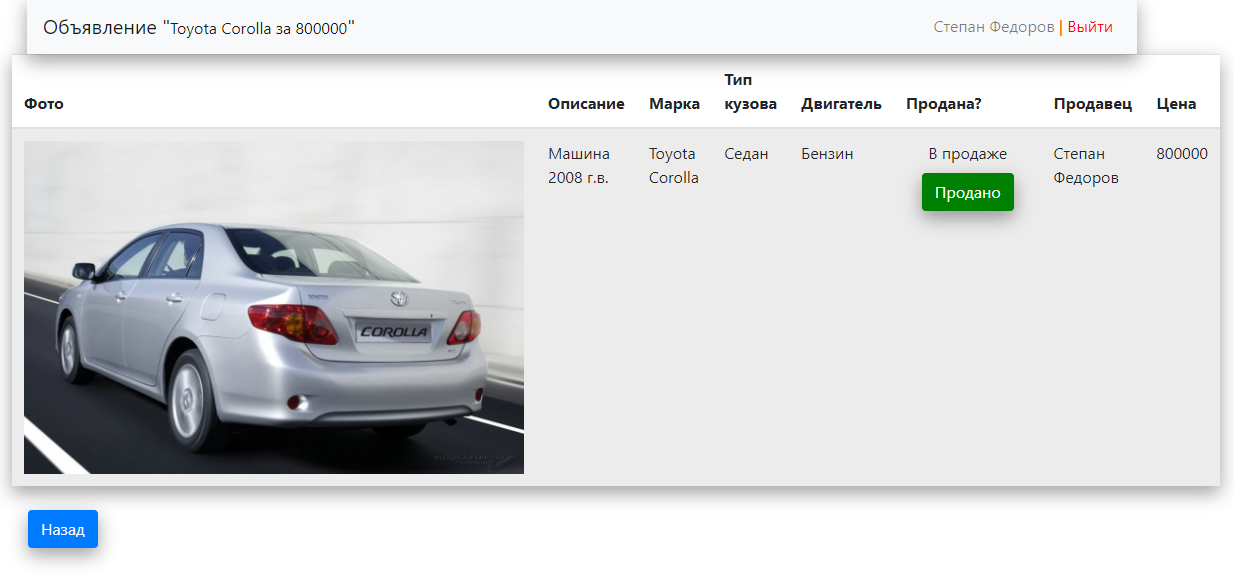
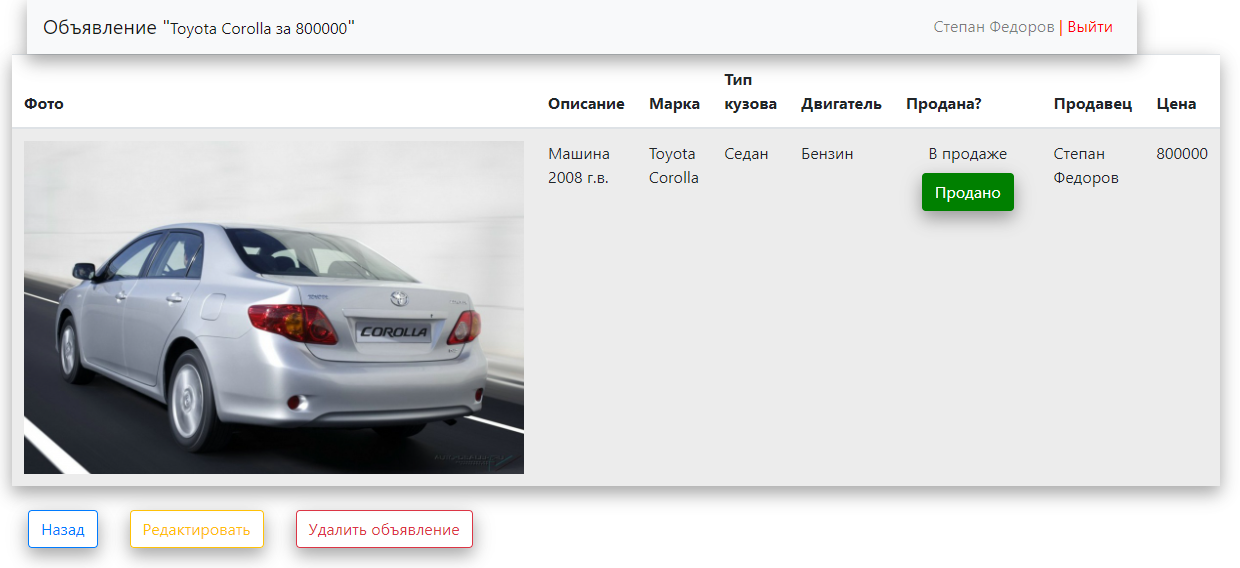
Тестовое задание. Hibernate. [#330581 #336785]

diff --git a/src/main/resources/templates/updateAd.html b/src/main/resources/templates/updateAd.html
@@ -18,14 +18,15 @@
 <body>
 <div class="container">
     <nav class="navbar navbar-expand-lg navbar-light bg-light">
-        <a class="navbar-brand" href="#">Новое объявление о продаже</a>
+        <a class="navbar-brand" href="#">Изменить объявление "<small
+                th:text="${advertisement.car.carBrand} + ' за ' + ${advertisement.price}"></small>"</a>
         <button class="navbar-toggler" type="button" data-toggle="collapse" data-target="#navbarNavAltMarkup" aria-controls="navbarNavAltMarkup" aria-expanded="false" aria-label="Toggle navigation">
             <span class="navbar-toggler-icon"></span>
         </button>
         <div class="collapse navbar-collapse" id="navbarNavAltMarkup">
             <div class="navbar-nav mr-auto">
                 <a class="nav-item nav-link" th:href="@{/ads}">Все объявления</a>
-                <a class="nav-item nav-link active" th:href="@{/addAdvertisement}">Новое объявление<span class="sr-only">(current)</span></a>
+                <a class="nav-item nav-link" th:href="@{/addAdvertisement}">Новое объявление</a>
             </div>
             <div class="navbar-nav ml-auto">
                 <a class="nav-item nav-link" th:if="${user.name == 'Гость'}" th:href="@{/loginPage}">
@@ -42,48 +43,27 @@
     <div class="row">
         <div class="card" style="width: 100%">
             <div class="card-header">
-                Новое объявление.
+                Редактировать объявление.
             </div>
             <div class="card-body">
-                <form th:action="@{/createAdvertisement}" method="POST" enctype="multipart/form-data">
-                    <input type="hidden" name="id" value="0"/>
-                    <div class="form-group">
-                        <label for="carBrand">Марка автомобиля</label>
-                        <select class="form-control" id="carBrand" th:name="carBrand">
-                            <option th:each="brand: ${carBrands}" th:text="${brand}"></option>
-                        </select>
-                        <a th:href="@{/addNewCarAd}">Не нашли марку Вашего автомобиля в списке?</a>
-                    </div>
-                    <div class="form-group">
-                        <label for="engine">Тип двигателя</label>
-                        <select class="form-control" id="engine" th:name="engine">
-                            <option th:each="engine: ${engines}" th:value="${engine.id}"
-                                    th:text="${engine.description}"></option>
-                        </select>
-                    </div>
-                    <div class="form-group">
-                        <label for="bodyType">Тип кузова</label>
-                        <select class="form-control" id="bodyType" th:name="bodyType">
-                            <option th:each="type: ${bodyType}" th:text="${type}"></option>
-                        </select>
-                    </div>
+                <form th:action="@{/updateAd}" method="POST" th:object="${advertisement}">
+                    <input type="hidden" name="id" th:field="*{id}"/>
                     <div class="form-group">
                         <label for="description">Описание</label>
-                        <input type="text" class="form-control" name="description" id="description">
-                    </div>
-                    <div class="form-group">
-                        <label for="description">Фотография</label>
-                        <input type="file" class="form-control" name="file" id="file">
+                        <input type="text" class="form-control" name="description" id="description" th:field="*{description}">
                     </div>
                     <div class="form-group">
                         <label for="price">Цена</label>
-                        <input type="number" class="form-control" name="price" id="price">
+                        <input type="number" class="form-control" name="price" id="price" th:field="*{price}">
                     </div>
-                    <button type="submit" class="btn btn-outline-primary">Сохранить</button>
+                    <button type="submit" class="btn btn-outline-success">Сохранить</button>
                 </form>
             </div>
         </div>
     </div>
+    <a class="nav-item nav-link">
+        <button type="submit" class="btn btn-outline-primary" style="float: left" onclick="history.back()">Назад</button>
+    </a>
 </div>
 </body>
 </html>

diff --git a/src/main/resources/templates/addNewCarAd.html b/src/main/resources/templates/addNewCarAd.html
@@ -65,7 +65,9 @@
                     </div>
                     <div class="form-group">
                         <label for="bodyType">Тип кузова</label>
-                        <input type="text" class="form-control" name="bodyType" id="bodyType">
+                        <select class="form-control" id="bodyType" th:name="bodyType">
+                            <option th:each="type: ${bodyTypes}" th:text="${type}"></option>
+                        </select>
                     </div>
                     <div class="form-group">
                         <label for="description">Описание</label>
@@ -79,7 +81,7 @@
                         <label for="price">Цена</label>
                         <input type="number" class="form-control" name="price" id="price">
                     </div>
-                    <button type="submit" class="btn btn-primary">Сохранить</button>
+                    <button type="submit" class="btn btn-outline-primary">Сохранить</button>
                 </form>
             </div>
         </div>

diff --git a/src/main/resources/templates/advertisement.html b/src/main/resources/templates/advertisement.html
@@ -113,8 +113,18 @@
             </tbody>
         </table>
         <a class="nav-item nav-link">
-            <button type="submit" class="btn btn-primary" style="float: right" onclick="history.back()">Назад</button>
+            <button type="submit" class="btn btn-outline-primary" style="float: right" onclick="history.back()">Назад</button>
         </a>
+        <span th:if="${user.getId().equals(advertisement.user.getId()) and advertisement.isSold() != true}">
+        <a class="nav-item nav-link" th:href="@{|/formUpdateAd/${advertisement.id}|}">
+            <button type="submit" class="btn btn-outline-warning">Редактировать</button>
+        </a>
+        </span>
+        <span th:if="${user.getId().equals(advertisement.user.getId())}">
+        <a class="nav-item nav-link" th:href="@{|/deleteAd/${advertisement.id}|}">
+            <button type="submit" class="btn btn-outline-danger">Удалить объявление</button>
+        </a>
+        </span>
     </div>
 </div>
 </body>

diff --git a/src/main/java/ru/job4j/cars/controller/AdController.java b/src/main/java/ru/job4j/cars/controller/AdController.java
@@ -20,7 +20,6 @@ import javax.servlet.http.HttpSession;
 import java.io.IOException;
 import java.time.LocalDateTime;
 import java.time.format.DateTimeFormatter;
-import java.util.List;
 
 @Controller
 public class AdController {
@@ -59,45 +58,57 @@ public class AdController {
     @GetMapping("/addAdvertisement")
     public String addAdvertisement(Model model, HttpSession session) {
         setAccountToModel(model, session);
-        model.addAttribute("cars", carService.findAll());
+        model.addAttribute("carBrands", carService.findDistinctBrands());
+        model.addAttribute("engines", carService.findAllEngines());
+        model.addAttribute("bodyType", carService.findAllBodyTypes());
         return "addAdvertisement";
-    }
-
-    @PostMapping("/createAdvertisement")
-    public String createAdvertisement(@ModelAttribute Advertisement ad,
-                                      @RequestParam("file") MultipartFile file,
-                                      @RequestParam("cars") List<String> carsId,
-                                      HttpSession session) throws IOException {
-        User user = (User) session.getAttribute("user");
-        ad.setUser(user);
-        ad.setPhoto(file.getBytes());
-        ad.setDate(LocalDateTime.now().format(DateTimeFormatter.ofPattern("dd MMMM yyyy")));
-        adService.addFromList(ad, carsId);
-        return "redirect:/ads";
     }
 
     @GetMapping("/addNewCarAd")
     public String addNewCarAd(Model model, HttpSession session) {
         setAccountToModel(model, session);
         model.addAttribute("engines", carService.findAllEngines());
-        model.addAttribute("bodyTypes", carService.findAll());
+        model.addAttribute("bodyTypes", carService.findAllBodyTypes());
         return "addNewCarAd";
+    }
+
+    private String saveAd(@ModelAttribute Advertisement ad,
+                          @ModelAttribute Car car,
+                          @RequestParam("engine") int engineId,
+                          @RequestParam("bodyType") String bodyType,
+                          @RequestParam("file") MultipartFile file,
+                          HttpSession session) throws IOException {
+        car.setEngine(carService.findEngineById(engineId));
+        car.setBodyType(bodyType);
+        User user = (User) session.getAttribute("user");
+        ad.setUser(user);
+        ad.setCar(carService.add(car));
+        ad.setPhoto(file.getBytes());
+        ad.setDate(LocalDateTime.now().format(DateTimeFormatter.ofPattern("dd MMMM yyyy")));
+        adService.add(ad);
+        return "redirect:/ads";
+    }
+
+    @PostMapping("/createAdvertisement")
+    public String createAdvertisement(@ModelAttribute Advertisement ad,
+                                      @ModelAttribute Car car,
+                                      @RequestParam("carBrand") String carBrand,
+                                      @RequestParam("engine") int engineId,
+                                      @RequestParam("bodyType") String bodyType,
+                                      @RequestParam("file") MultipartFile file,
+                                      HttpSession session) throws IOException {
+        car.setCarBrand(carBrand);
+        return saveAd(ad, car, engineId, bodyType, file, session);
     }
 
     @PostMapping("/createNewCarAd")
     public String createNewCarAd(@ModelAttribute Advertisement ad,
                                  @ModelAttribute Car car,
                                  @RequestParam("engine") int engineId,
+                                 @RequestParam("bodyType") String bodyType,
                                  @RequestParam("file") MultipartFile file,
                                  HttpSession session) throws IOException {
-        User user = (User) session.getAttribute("user");
-        car.setEngine(carService.findEngineById(engineId));
-        ad.setUser(user);
-        ad.setCar(carService.add(car));
-        ad.setPhoto(file.getBytes());
-        ad.setDate(LocalDateTime.now().format(DateTimeFormatter.ofPattern("dd MMMM yyyy")));
-        adService.addNew(ad);
-        return "redirect:/ads";
+        return saveAd(ad, car, engineId, bodyType, file, session);
     }
 
     @GetMapping("/advertisement/{adId}")
@@ -139,6 +150,25 @@ public class AdController {
         model.addAttribute("request", brand);
         model.addAttribute("brand", adService.findAdsWithCertainBrand(brand));
         return "search";
+    }
+
+    @GetMapping("/formUpdateAd/{advertisementId}")
+    public String formUpdateTask(Model model, @PathVariable("advertisementId") int id, HttpSession session) {
+        model.addAttribute("advertisement", adService.findById(id));
+        setAccountToModel(model, session);
+        return "updateAd";
+    }
+
+    @PostMapping("/updateAd")
+    public String updateAdvertisement(@ModelAttribute Advertisement advertisement, int id) {
+        adService.update(advertisement, id);
+        return "redirect:/ads";
+    }
+
+    @GetMapping("/deleteAd/{advertisementId}")
+    public String deleteAdvertisement(Model model, @PathVariable int advertisementId) {
+        model.addAttribute("task", adService.delete(advertisementId));
+        return "redirect:/ads";
     }
 
     @GetMapping("/carPhoto/{advertisementId}")

diff --git a/src/main/java/ru/job4j/cars/repository/AdRepository.java b/src/main/java/ru/job4j/cars/repository/AdRepository.java
@@ -4,7 +4,6 @@ import org.hibernate.SessionFactory;
 import org.hibernate.type.StringType;
 import org.springframework.stereotype.Repository;
 import ru.job4j.cars.model.Advertisement;
-import ru.job4j.cars.model.Car;
 
 import java.time.LocalDateTime;
 import java.time.format.DateTimeFormatter;
@@ -13,31 +12,19 @@ import java.util.List;
 @Repository
 public class AdRepository implements IStore {
     private final SessionFactory sf;
-    private final DateTimeFormatter formatter = DateTimeFormatter.ofPattern("dd-MM-yyyy");
+    private final DateTimeFormatter formatter = DateTimeFormatter.ofPattern("dd MMMM yyyy");
 
     public AdRepository(SessionFactory sf) {
         this.sf = sf;
     }
 
-    public Advertisement addFromList(Advertisement advertisement, List<String> carsId) {
-        tx(session -> {
-                    for (String id : carsId) {
-                        Car car = session.get(Car.class, Integer.parseInt(id));
-                        advertisement.setCar(car);
-                    }
-                    return session.save(advertisement);
-                },
-                sf);
-        return advertisement;
-    }
-
-    public Advertisement addNew(Advertisement advertisement) {
+    public Advertisement add(Advertisement advertisement) {
         tx(session -> session.save(advertisement), sf);
         return advertisement;
     }
 
     public List<Advertisement> findAll() {
-        return tx(session -> session.createQuery("select distinct ad from Advertisement ad order by date desc, price desc", Advertisement.class)
+        return tx(session -> session.createQuery("from Advertisement ad order by date desc, price desc", Advertisement.class)
                 .getResultList(), sf);
     }
 
@@ -74,11 +61,11 @@ public class AdRepository implements IStore {
 
     public boolean update(Advertisement advertisement, int id) {
         return tx(session -> session.createQuery("update Advertisement ad "
-                                + "set ad.date = :date, ad.description = :description, ad.isSold = :isSold "
+                                + "set ad.date = :date, ad.description = :description, ad.price = :price "
                                 + "where ad.id = :id")
                         .setParameter("date", LocalDateTime.now().format(formatter))
                         .setParameter("description", advertisement.getDescription())
-                        .setParameter("isSold", advertisement.isSold())
+                        .setParameter("price", advertisement.getPrice())
                         .setParameter("id", id)
                         .executeUpdate(),
                 sf) > 0;

diff --git a/src/main/java/ru/job4j/cars/repository/CarRepository.java b/src/main/java/ru/job4j/cars/repository/CarRepository.java
@@ -26,6 +26,10 @@ public class CarRepository implements IStore {
                 sf);
     }
 
+    public List<Car> findDistinctBrands() {
+        return tx(session -> session.createQuery("select distinct carBrand from Car").getResultList(), sf);
+    }
+
     public List<Car> findCarsByBodyType(String bodyType) {
         return tx(session -> session.createQuery("from Car where bodyType = :bodyType")
                         .setParameter("bodyType", bodyType)
@@ -46,5 +50,9 @@ public class CarRepository implements IStore {
 
     public List<Engine> findAllEngines() {
         return tx(session -> session.createQuery("from Engine ").getResultList(), sf);
+    }
+
+    public List<Car> findAllBodyTypes() {
+        return tx(session -> session.createQuery("select distinct bodyType from Car ").getResultList(), sf);
     }
 }

diff --git a/src/main/java/ru/job4j/cars/service/AdService.java b/src/main/java/ru/job4j/cars/service/AdService.java
@@ -2,7 +2,6 @@ package ru.job4j.cars.service;
 
 import org.springframework.stereotype.Service;
 import ru.job4j.cars.model.Advertisement;
-import ru.job4j.cars.model.Car;
 import ru.job4j.cars.repository.AdRepository;
 
 import java.util.List;
@@ -15,12 +14,8 @@ public class AdService {
         this.store = store;
     }
 
-    public Advertisement addFromList(Advertisement advertisement, List<String> carsId) {
-        return store.addFromList(advertisement, carsId);
-    }
-
-    public Advertisement addNew(Advertisement advertisement) {
-        return store.addNew(advertisement);
+    public Advertisement add(Advertisement advertisement) {
+        return store.add(advertisement);
     }
 
     public List<Advertisement> findAll() {

diff --git a/src/main/java/ru/job4j/cars/service/CarService.java b/src/main/java/ru/job4j/cars/service/CarService.java
@@ -27,6 +27,10 @@ public class CarService {
         return repository.findCarsByBrand(brand);
     }
 
+    public List<Car> findDistinctBrands() {
+        return repository.findDistinctBrands();
+    }
+
     public List<Car> findCarsByBodyType(String bodyType) {
         return repository.findCarsByBodyType(bodyType);
     }
@@ -37,5 +41,9 @@ public class CarService {
 
     public List<Engine> findAllEngines() {
         return repository.findAllEngines();
+    }
+
+    public List<Car> findAllBodyTypes() {
+        return repository.findAllBodyTypes();
     }
 }

diff --git a/README.md b/README.md
@@ -34,8 +34,12 @@ Web-приложение для продажи машин.
 ![advertisement](src/main/resources/attachments/advertisement.png)
 Возможность продать автомобиль (нажать кнопку "продано") имеется только у аккаунта-создателя этого объявления.
 В этом случае статус автомобиля меняется на "Машина продана".
+Также только у создателя есть возможность отредактировать или удалить объявление.
 При наведении на фото курсора - фото увеличивается:
 ![adPhotoOnMouseOver](src/main/resources/attachments/adPhotoOnMouseOver.png)
+
+Страница редактирования объявления:
+![updateAdvertisement](src/main/resources/attachments/updateAd.png)
 
 Страница добавления нового объявления:
 ![newAd](src/main/resources/attachments/newAdWithBrandFromList.png)
